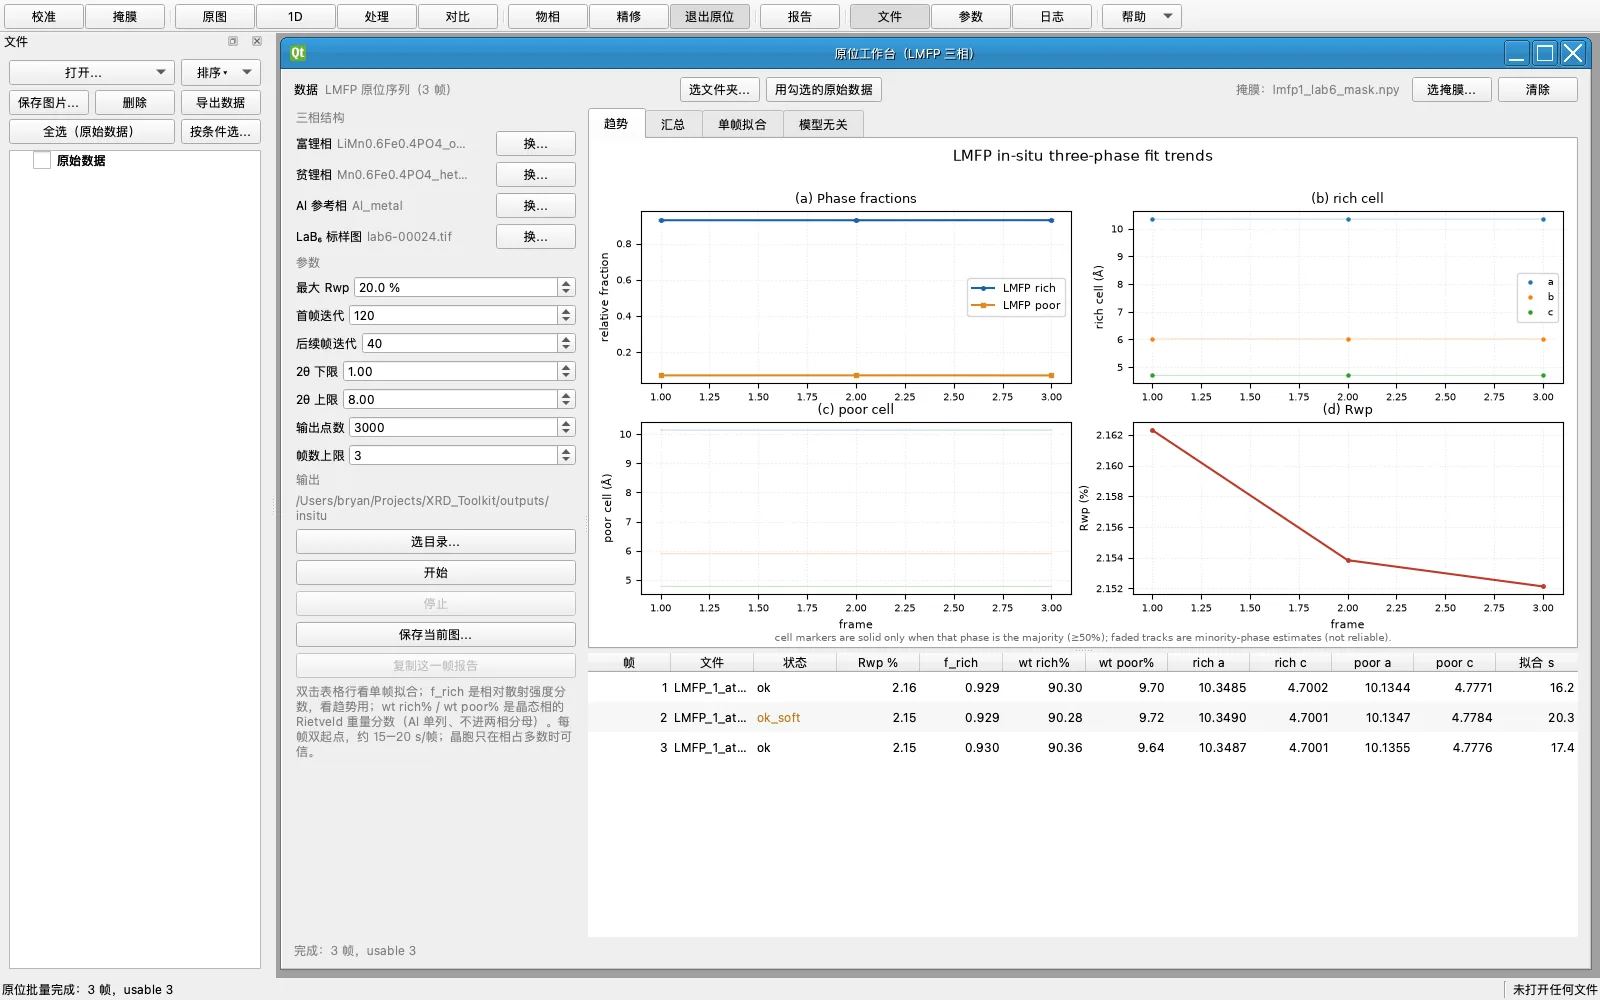
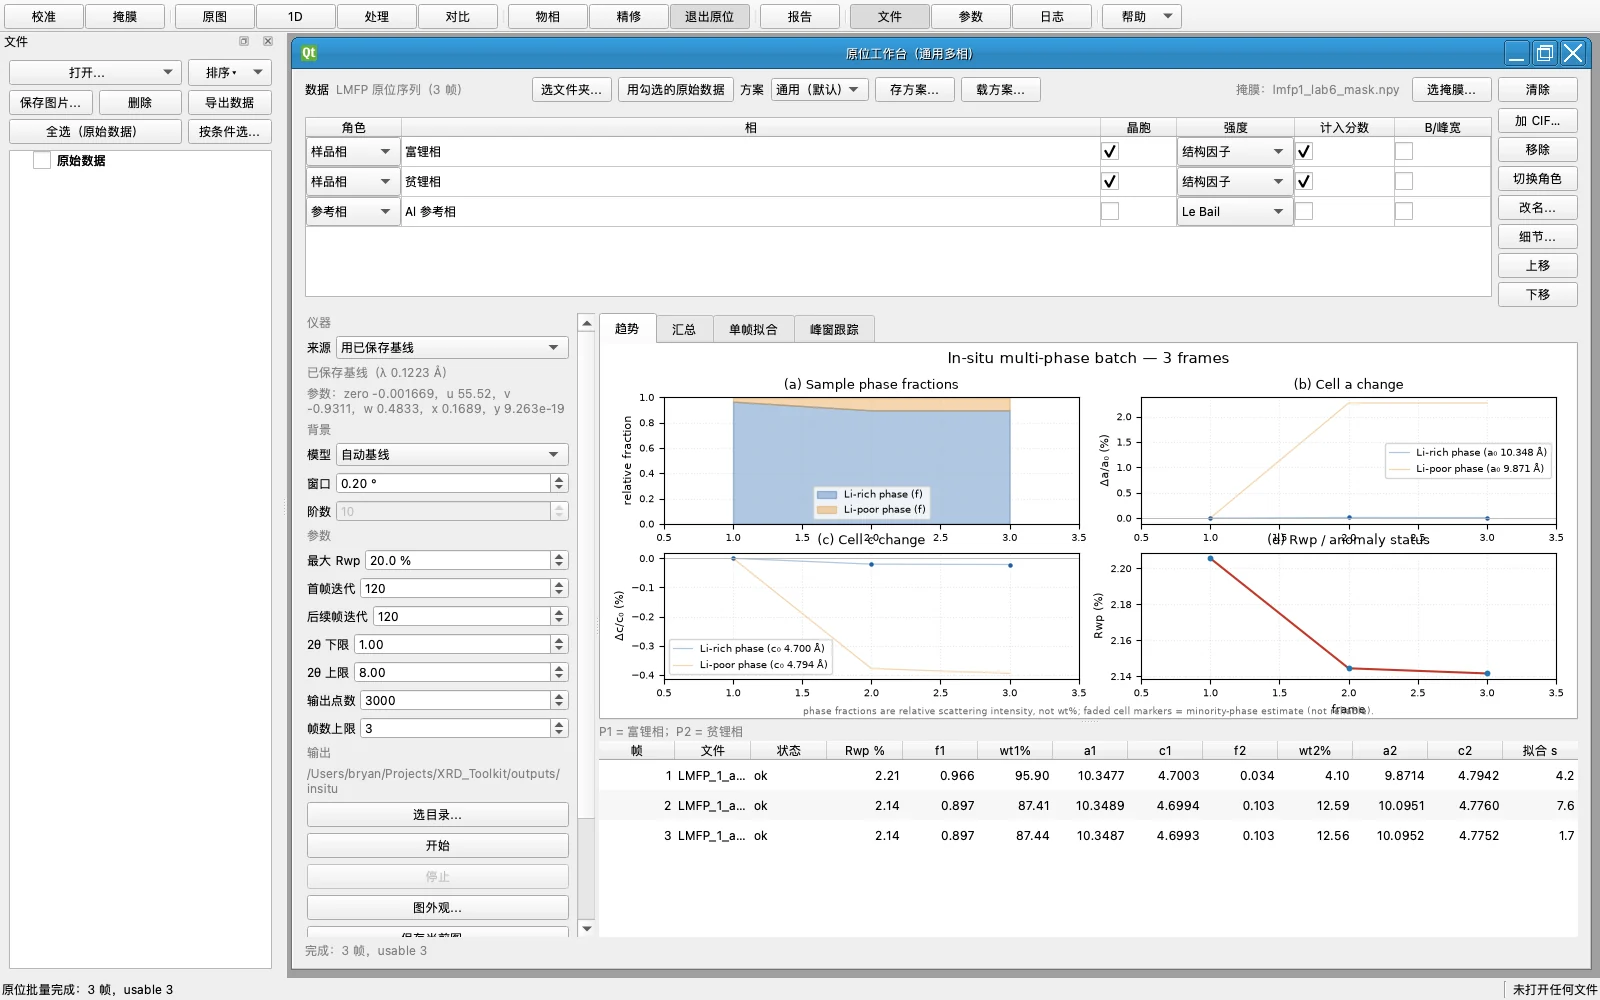
docs: refresh the site showcase for the generic in-situ page
Update the feature card, gallery caption and metadata, refresh the
site screenshot from the new workbench, and mention background /
instrument / compact-table controls in the READMEs.

diff --git a/docs/index.html b/docs/index.html
@@ -15,7 +15,7 @@
 <meta property="og:type" content="website">
 <meta property="og:site_name" content="XRD Toolkit">
 <meta property="og:title" content="XRD Toolkit — 二维 XRD 数据处理工具箱">
-<meta property="og:description" content="从二维衍射图像到一维粉末谱：校准、积分、背景扣除、寻峰、峰形拟合（Scherrer/W-H）、全谱精修、方案管理、一键报告与四视图原位工作台。支持 Windows / macOS 下载。">
+<meta property="og:description" content="从二维衍射图像到一维粉末谱：校准、积分、背景扣除、寻峰、峰形拟合（Scherrer/W-H）、全谱精修、方案管理、一键报告与通用多相原位工作台。支持 Windows / macOS 下载。">
 <meta property="og:url" content="https://xyyzzc3.github.io/xrd_toolkit/">
 <meta property="og:image" content="https://xyyzzc3.github.io/xrd_toolkit/assets/og-preview.png">
 <meta property="og:image:width" content="1280">
@@ -24,7 +24,7 @@
 <meta property="og:locale" content="zh_CN">
 <meta name="twitter:card" content="summary_large_image">
 <meta name="twitter:title" content="XRD Toolkit — 二维 XRD 数据处理工具箱">
-<meta name="twitter:description" content="从二维衍射图像到一维粉末谱：校准、积分、背景扣除、寻峰、峰形拟合（Scherrer/W-H）、全谱精修、方案管理、一键报告与四视图原位工作台。">
+<meta name="twitter:description" content="从二维衍射图像到一维粉末谱：校准、积分、背景扣除、寻峰、峰形拟合（Scherrer/W-H）、全谱精修、方案管理、一键报告与通用多相原位工作台。">
 <meta name="twitter:image" content="https://xyyzzc3.github.io/xrd_toolkit/assets/og-preview.png">
 
 <style>
@@ -335,7 +335,7 @@
         <div class="feature">
           <div class="ico"><svg viewBox="0 0 24 24" width="22" height="22" fill="none" stroke="currentColor" stroke-width="1.7"><path d="M3 18c3 0 4-10 7-10s3 7 5 7 3-4 6-4"/><path d="M3 21h18" opacity=".45"/></svg></div>
           <h3>全谱拟合</h3>
-          <p>Thompson–Cox–Hastings 峰形，Le Bail 或结构精修，支持额外相、原子坐标与位点占位精修、仪器基线与 wt%；原位批量另有趋势 / 汇总 / 单帧拟合 / 峰窗跟踪四视图，双起点稳健拟合。</p>
+          <p>Thompson–Cox–Hastings 峰形，Le Bail 或结构精修，支持额外相、原子坐标与位点占位精修、仪器基线与 wt%；原位页是通用多相页面（LMFP 是内置方案）：背景模型 / 仪器来源可选、结果表紧凑列、方案可存可载，趋势 / 汇总 / 单帧拟合 / 峰窗跟踪四视图。</p>
         </div>
         <div class="feature">
           <div class="ico"><svg viewBox="0 0 24 24" width="22" height="22" fill="none" stroke="currentColor" stroke-width="1.7"><rect x="3" y="3" width="7" height="7" rx="1.5"/><rect x="14" y="3" width="7" height="7" rx="1.5"/><rect x="3" y="14" width="7" height="7" rx="1.5"/><rect x="14" y="14" width="7" height="7" rx="1.5"/></svg></div>
@@ -394,8 +394,8 @@
           <figcaption><b>LaB₆ 全谱拟合</b>Le Bail 强度拟合，Rwp 4.24%，带差值曲线与布拉格峰位刻度。</figcaption>
         </figure>
         <figure class="shot">
-          <div class="img"><img src="assets/shot_insitu.webp" width="1600" height="1000" loading="lazy" decoding="async" alt="LMFP 81 帧原位三相精修趋势"></div>
-          <figcaption><b>81 帧原位三相精修</b>LMFP 充放电序列：趋势 / 汇总 / 单帧拟合 / 峰窗跟踪四视图；双起点稳健拟合，GSAS-II 交叉验证。</figcaption>
+          <div class="img"><img src="assets/shot_insitu.webp" width="1600" height="1000" loading="lazy" decoding="async" alt="原位通用多相批量：通用相表、紧凑结果表与趋势"></div>
+          <figcaption><b>原位通用多相批量</b>3 帧 LMFP 真数据演示：通用相表（LMFP 是内置方案）+ 紧凑结果表 + 相分数趋势；整批 81 帧约 3.5 分钟，双起点稳健拟合，GSAS-II 交叉验证。</figcaption>
         </figure>
       </div>
     </div>

diff --git a/docs/README.zh-CN.md b/docs/README.zh-CN.md
@@ -134,7 +134,7 @@ macOS 13 起 / Windows 10 起，下载约 150 MB（解压约 340 MB）。zip 里
 - **自动寻峰与单峰峰形拟合**——稳健噪声估计 + 显著度/峰高门槛 + 最小峰距 + 可选 FWHM 过滤的自动寻峰（`services/peak_finding.py`）；Gaussian / Lorentzian / pseudo-Voigt / split-Pearson VII 单峰拟合（局部背景），以及逐峰 Scherrer 尺寸和带仪器校正（quadrature / linear 扣标样，或 GUI 里已保存的 LaB₆ 基线）的 Williamson–Hall 分析；命令行入口 `scripts/fit_peaks.py`。
 - **物相筛选与晶胞精修**——把观测峰位与内置 41 张精选相库或自选 CIF 目录逐相打分，支持周期表点选元素、多相叠加与 CSV；七个晶系的峰位级晶胞精修（含 2θ 零位；`scripts/refine_cell.py`，或物相工作台的 `[精修晶胞]`）。
 - **实测标样谱全谱拟合**——独立实现的 Thompson–Cox–Hastings 伪 Voigt 峰形与 Caglioti/Lorentzian 峰宽项，参数口径与单位沿用 GSAS-II 的 PXC 模型（Caglioti, Paoletti & Ricci, 1958；Thompson, Cox & Hastings, 1987；Toby & Von Dreele, 2013），峰形与 GSAS-II 模拟做过逐点对拍。支持 Le Bail/结构拟合、额外相、按空间群约束的原子坐标与位点占位精修，以及固定坏点掩膜。LaB₆ 标样定仪器峰形并用 Le Bail 强度拟合（Rwp 4.24%），并给出晶态相的 Rietveld wt%（Z·M·V；非晶/未知相不参与分母）；图见 `showcase/simulation/sim_xrd_fit_LaB6.png`。
-- **原位多相批量（通用页面，LMFP 是内置方案）**——`scripts/fit_insitu.py` 对原位 LMFP 序列做三相（富锂 LMFP / 贫锂 heterosite / Al 参考）全精修，自动双起点稳健拟合（首解收敛用种子，不收敛再补 CIF 端元）、种子重锁、异常帧标记、CSV 与分段计时；GUI 原位工作台默认是通用相表（任意 CIF 列表、顺序精修），「方案」下拉里的 LMFP 三相当场替换相表/策略/视图，提供趋势 / 汇总 / 单帧拟合 / 峰窗跟踪四视图；相表按样品相/参考相设角色，参考相不进样品分数分母；方案可存成 `.json`（相、角色、策略、视图、仪器来源）。`scripts/gsas2_insitu_crosscheck.py` 用 GSAS-II 对 3 帧做独立对照。
+- **原位多相批量（通用页面，LMFP 是内置方案）**——`scripts/fit_insitu.py` 对原位 LMFP 序列做三相（富锂 LMFP / 贫锂 heterosite / Al 参考）全精修，自动双起点稳健拟合（首解收敛用种子，不收敛再补 CIF 端元）、种子重锁、异常帧标记、CSV 与分段计时；GUI 原位工作台默认是通用相表（任意 CIF 列表、顺序精修），「方案」下拉里的 LMFP 三相当场替换相表/策略/视图，提供趋势 / 汇总 / 单帧拟合 / 峰窗跟踪四视图；相表按样品相/参考相设角色，参考相不进样品分数分母；背景模型/窗口与仪器来源可选，结果表默认紧凑列（右键可看诊断全列），相细节可填初始晶胞；方案可存成 `.json`（相、角色、策略、视图、仪器来源）。`scripts/gsas2_insitu_crosscheck.py` 用 GSAS-II 对 3 帧做独立对照。
 - **工作台交互**——物相、精修、原位与命令行共用同一套引擎。进入工作台时收起参数坞和日志坞，文件栏保留：双击文件栏条目 = 对这条操作，勾选 = 批量范围；工作台内的下拉作镜像/兜底，退出恢复原样。
 - **一键分析报告**——把当前会话的 1D 曲线、峰表、单峰拟合、W-H、物相筛选、全谱精修与原位多相批量结果汇成一份自包含 HTML（图内嵌，浏览器可打印 PDF）；缺的节标注“本次未做”，并写清定量口径（wt% 与 f_rich、背景系统偏差、少数相晶胞）。
 - **命名项目预设层**——一份预设打包八项输入：几何配置、第二相 CIF、相库目录、样品元素（一定有/可能有）、处理设置（背景/平滑/裁剪快照）、原位帧目录、原位掩膜、掩膜工程（`.mask.npz` 路径）；换预设 = 一起换，不用一项一项改。参数坞可切换/保存/[管理…]，管理页里**八项都能手动选**（第二相下拉 + 浏览、目录选择、两态样品元素与周期表、掩膜文件选择等），点 [保存方案] 写入当前方案（活动方案立即生效）；坞顶另有几何下拉，选中即换当前会话几何，与方案不一致时下拉变橙提示「未写进方案」。处理设置在切换后要点 `[套用当前方案]` 才生效，调好后用 `[存进方案…]` 写回；掩膜工程在掩膜工作台按图兜底，原位批量两种掩膜格式（工程/通用）都收。旧版 `outputs/recipes.json` 的命名配方在启动时一次性迁成用户预设。内置 LMFP 预设只读，用户预设存 `presets_user.json`，下次启动自动接上上次用的那份。

diff --git a/README.md b/README.md
@@ -111,7 +111,7 @@ Masking is the step between calibration and integration. The toolbar has a centr
 - **Peak finding and single-peak profile fitting** — automatic peak detection with a robust noise estimate, prominence/height thresholds, minimum spacing and optional FWHM filtering (`services/peak_finding.py`); Gaussian, Lorentzian, pseudo-Voigt and split-Pearson VII single-peak fits with local backgrounds (`scripts/fit_peaks.py`), plus per-peak Scherrer size and instrument-corrected Williamson–Hall analysis (quadrature or linear subtraction of a LaB₆ standard's width, or the saved LaB₆ baseline in the GUI).
 - **Phase screening and cell refinement** — match observed peak positions against a bundled 41-phase library or your own CIF folder, filter by the periodic table, overlay several candidates, and refine the cell for all seven crystal systems including a 2θ zero (`scripts/refine_cell.py`, or `[精修晶胞]` in the phase workbench).
 - **Full-pattern fitting of measured standard patterns** — an independent implementation of the Thompson–Cox–Hastings pseudo-Voigt profile with Caglioti/Lorentzian width terms, following the GSAS-II PXC parameter conventions and units (Caglioti, Paoletti & Ricci, 1958; Thompson, Cox & Hastings, 1987; Toby & Von Dreele, 2013), with the profile cross-checked against GSAS-II simulations. Supports Le Bail or structural fits, extra phases, symmetry-constrained atomic-coordinate and site-occupancy refinement, and fixed-pixel hot-spot masking. The LaB₆ standard fixes the instrument profile and its own pattern is fitted with Le Bail intensities (Rwp 4.24%), and the fit reports Rietveld-scale wt% for the crystalline phases (Z·M·V; amorphous or unknown phases are excluded). Example: `showcase/simulation/sim_xrd_fit_LaB6.png`.
-- **In-situ multi-phase batch (generic page, LMFP is a built-in scheme)** — the in-situ workbench defaults to a generic phase table (any CIF list, roles, structure-factor/Le Bail, fraction denominator); the LMFP three-phase preset (Li-rich LMFP, Li-poor heterosite, Al reference) fills the same page in place, with two-start robust fitting (previous seed + CIF end-member), seed re-locking, anomaly flags, a CSV summary and split timings. Trends, a summary, single-frame fits and a peak-window tracker share one set of views; schemes save/load as JSON. A three-frame GSAS-II cross-check (`scripts/gsas2_insitu_crosscheck.py`) compares cells and phase-fraction trends.
+- **In-situ multi-phase batch (generic page, LMFP is a built-in scheme)** — the in-situ workbench defaults to a generic phase table (any CIF list, roles, structure-factor/Le Bail, fraction denominator); the LMFP three-phase preset (Li-rich LMFP, Li-poor heterosite, Al reference) fills the same page in place, with two-start robust fitting (previous seed + CIF end-member), seed re-locking, anomaly flags, a CSV summary and split timings. Trends, a summary, single-frame fits and a peak-window tracker share one set of views; schemes save/load as JSON, background model/window and instrument source are selectable, and the result table defaults to a compact phase-wise set of columns with a diagnostic all-columns toggle. A three-frame GSAS-II cross-check (`scripts/gsas2_insitu_crosscheck.py`) compares cells and phase-fraction trends.
 - **Workbench workflow** — phase screening, refinement and the in-situ batch share the same engine as the CLI. Entering a workbench collapses the parameter and log docks but keeps the file bar: double-click an entry to operate on it, check entries for batch ranges, and the previous layout returns on exit.
 - **One-click analysis report** — collects the current session's 1D curve, peak table, single-peak fits, W–H, phase screening, whole-pattern refinement and in-situ multi-phase batch into a self-contained HTML (figures embedded; print to PDF from the browser). Missing sections are marked "not run", and the report states the quantitative caveats (wt% vs. f_rich, background bias, minority-phase cells).
 - **Named project presets** — a preset bundles geometry, second-phase CIF, in-situ frame directory/mask, the phase library, plus optional **processing settings** (background/smoothing/crop snapshot) and a **mask file** (`.mask.npz` path); switch/save/manage from the parameter dock. Processing settings take effect only when you click `[套用当前预设]`, and `[存进预设…]` writes the current set back into a preset; a mask file is a per-image fallback in the mask workbench. Legacy named recipes in `outputs/recipes.json` are migrated once to user presets on startup. The built-in LMFP preset is read-only; user presets live in `presets_user.json` and the last-used one is restored on startup. A geometry change made outside the preset (e.g. a fresh calibration) is flagged as "current settings" in the dropdown and can be folded back into a user preset from the manager.
